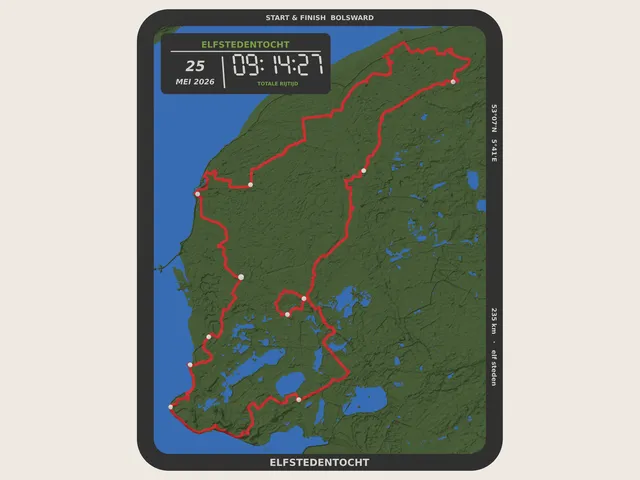
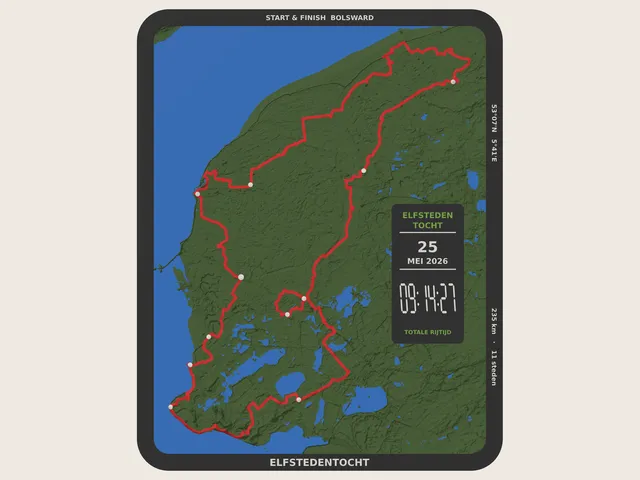
Elfstedentocht v2: staand ritkaartje rechts, 11 steden
Claude-Session: https://claude.ai/code/session_01Yb3YQ4NnfMNUKrkumKZ4zC

Changed region(s): [[0.5938, 0.4062, 0.75, 0.7188], [0.25, 0.0625, 0.5312, 0.2188], [0.75, 0.7188, 0.7812, 0.75]]

diff --git a/index.html b/index.html
@@ -152,7 +152,7 @@ h2.big{font-family:'Archivo',sans-serif;font-weight:800;font-size:clamp(36px,4.4
 <div role="group" aria-label="Filter op soort" id="filters" style="display:flex;flex-wrap:wrap;gap:8px"></div>
 </div>
 <div class="grid" id="grid"></div>
-<noscript><ul style="padding:0 24px;color:#B9C0B8"><li><strong>Rijk van Nijmegen</strong> (MTB) – Nijmegen, Groesbeek, Mook en Malden, 63 km, ± 800 hm</li><li><strong>Utrechtse Heuvelrug</strong> (MTB) – Van Hoge Vuursche tot Rhenen, 138 km, ± 1.050 hm</li><li><strong>MTB Zuid-Veluwe</strong> (MTB) – Ede, Lunteren, Otterlo en Arnhem, 158 km, ± 1.050 hm</li><li><strong>Dutch Mountain Ride</strong> (Gravel) – Zuid-Limburg, 129 km, ± 1.390 hm</li><li><strong>Geile Strecke</strong> (Gravel) – Nijmegen naar Maastricht, 217 km, ± 990 hm</li><li><strong>Green Divide</strong> (Gravel) – Naarden naar Zwolle, 302 km, ± 1.540 hm</li><li><strong>Brown Divide</strong> (Gravel) – Naarden naar Zwolle, wintervariant, 305 km, ± 1.230 hm</li><li><strong>Hunebed Highway</strong> (Gravel) – Rondje vanuit Drouwen, Drenthe, 175 km, ± 340 hm</li><li><strong>TransBelgian</strong> (Gravel) – Oostende naar Eupen, 515 km, ± 3.300 hm</li><li><strong>Elfstedentocht</strong> (Wielrennen) – Start &amp; finish Bolsward, 235 km, langs alle elf Friese steden</li><li><strong>Dutch Divide</strong> (Gravel) – Retranchement naar Nieuwe Statenzijl, 1.009 km, ± 1.500 hm</li></ul></noscript>
+<noscript><ul style="padding:0 24px;color:#B9C0B8"><li><strong>Rijk van Nijmegen</strong> (MTB) – Nijmegen, Groesbeek, Mook en Malden, 63 km, ± 800 hm</li><li><strong>Utrechtse Heuvelrug</strong> (MTB) – Van Hoge Vuursche tot Rhenen, 138 km, ± 1.050 hm</li><li><strong>MTB Zuid-Veluwe</strong> (MTB) – Ede, Lunteren, Otterlo en Arnhem, 158 km, ± 1.050 hm</li><li><strong>Dutch Mountain Ride</strong> (Gravel) – Zuid-Limburg, 129 km, ± 1.390 hm</li><li><strong>Geile Strecke</strong> (Gravel) – Nijmegen naar Maastricht, 217 km, ± 990 hm</li><li><strong>Green Divide</strong> (Gravel) – Naarden naar Zwolle, 302 km, ± 1.540 hm</li><li><strong>Brown Divide</strong> (Gravel) – Naarden naar Zwolle, wintervariant, 305 km, ± 1.230 hm</li><li><strong>Hunebed Highway</strong> (Gravel) – Rondje vanuit Drouwen, Drenthe, 175 km, ± 340 hm</li><li><strong>TransBelgian</strong> (Gravel) – Oostende naar Eupen, 515 km, ± 3.300 hm</li><li><strong>Elfstedentocht</strong> (Wielrennen) – Start &amp; finish Bolsward, 235 km, 11 steden</li><li><strong>Dutch Divide</strong> (Gravel) – Retranchement naar Nieuwe Statenzijl, 1.009 km, ± 1.500 hm</li></ul></noscript>
 
 </section>
 
@@ -220,6 +220,6 @@ h2.big{font-family:'Archivo',sans-serif;font-weight:800;font-size:clamp(36px,4.4
 </div>
 </footer>
 
-<script src="site.js?v=20261020143159"></script>
+<script src="site.js?v=20261020143927"></script>
 </body>
 </html>

diff --git a/site.js b/site.js
@@ -14,7 +14,7 @@
     { id: 'bd', size: '25 × 24 cm', price: 55, parts: 1, name: 'Brown Divide', place: 'Naarden → Zwolle, wintervariant', country: 'NL', sport: 'Gravel', km: '305', hm: '± 1.230', note: 'Andere route door het Kroondomein', imgs: 3, v: 2 },
     { id: 'hun', size: '17 × 25 cm', price: 45, parts: 1, name: 'Hunebed Highway', place: 'Start & finish Drouwen', country: 'NL', sport: 'Gravel', km: '175', hm: '± 340', note: 'Rondje door Drenthe', imgs: 2, card: 'tall' },
     { id: 'tb', size: '47 × 11 cm', price: 65, parts: 2, name: 'TransBelgian', place: 'Oostende → Eupen', country: 'BE', sport: 'Gravel', km: '515', hm: '± 3.300', note: 'Dwars door België, de Ardennen in', imgs: 2 },
-    { id: 'elf', size: '20 × 25 cm', price: 55, parts: 1, name: 'Elfstedentocht', place: 'Start & finish Bolsward', country: 'NL', sport: 'Wielrennen', km: '235', alt: ['STEDEN', 'elf'], note: 'Langs alle elf Friese steden', imgs: 3, def: { start: '2026-05-25', end: '2026-05-25', hh: '09', mm: '14', ss: '27' } },
+    { id: 'elf', size: '20 × 25 cm', price: 55, parts: 1, name: 'Elfstedentocht', place: 'Start & finish Bolsward', country: 'NL', sport: 'Wielrennen', km: '235', alt: ['STEDEN', '11'], note: 'Langs alle elf Friese steden', imgs: 3, v: 2, card: 'tall', cardTitle: 'Elfsteden tocht', def: { start: '2026-05-25', end: '2026-05-25', hh: '09', mm: '14', ss: '27' } },
     { id: 'dd', size: '25 × 21 cm', price: 55, parts: 1, name: 'Dutch Divide', place: 'Retranchement → Nieuwe Statenzijl', country: 'NL', sport: 'Gravel', km: '1.009', hm: '± 1.500', note: 'Heel Nederland, van zuidwest naar noordoost', imgs: 2 }
   ];
   var FILTERS = ['Alle', 'MTB', 'Gravel', 'Wielrennen'];
@@ -224,7 +224,7 @@
     if (!boxes.length) return;
     var tint = r.tint || '#8CBE46', dl = dateLabel();
     var time = two(state.hh, 99) + ':' + two(state.mm, 59) + ':' + two(state.ss, 59);
-    var title = r.name.toUpperCase(), aria = 'Ritkaartje ' + title + ', ' + dl.days + ' ' + dl.month + ', totale rijtijd ' + time;
+    var title = (r.cardTitle || r.name).toUpperCase(), aria = 'Ritkaartje ' + title + ', ' + dl.days + ' ' + dl.month + ', totale rijtijd ' + time;
     var html;
     if (r.card === 'tall') {
       html = '<div class="rcard" role="img" aria-label="' + esc(aria) + '" style="width:190px;padding:16px 16px 18px;text-align:center">' +
